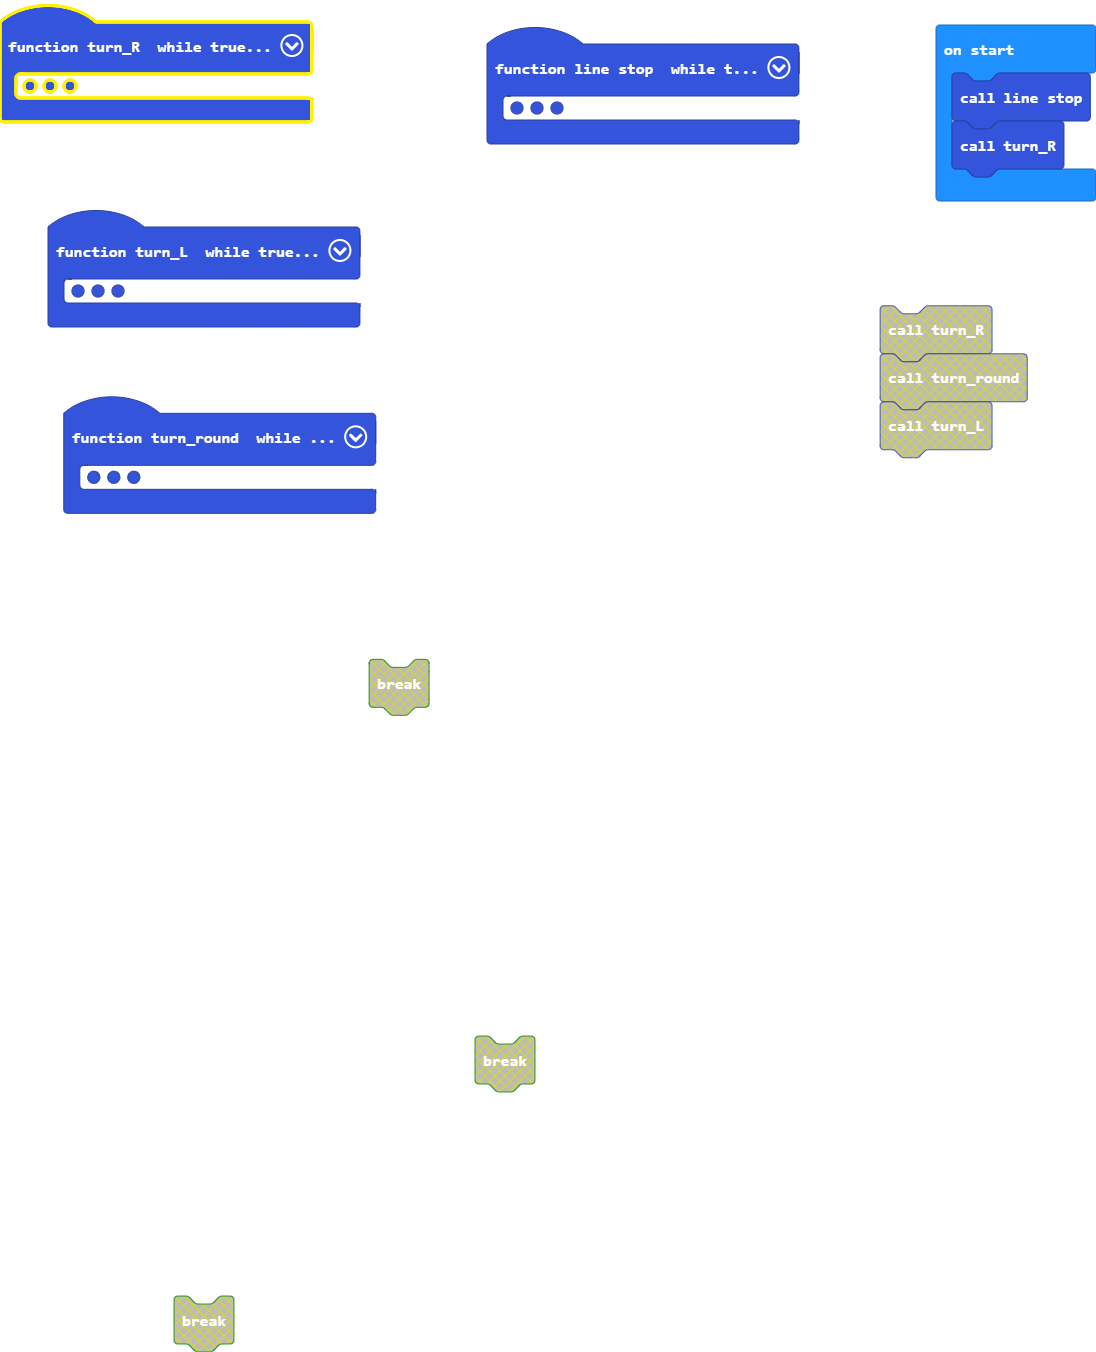
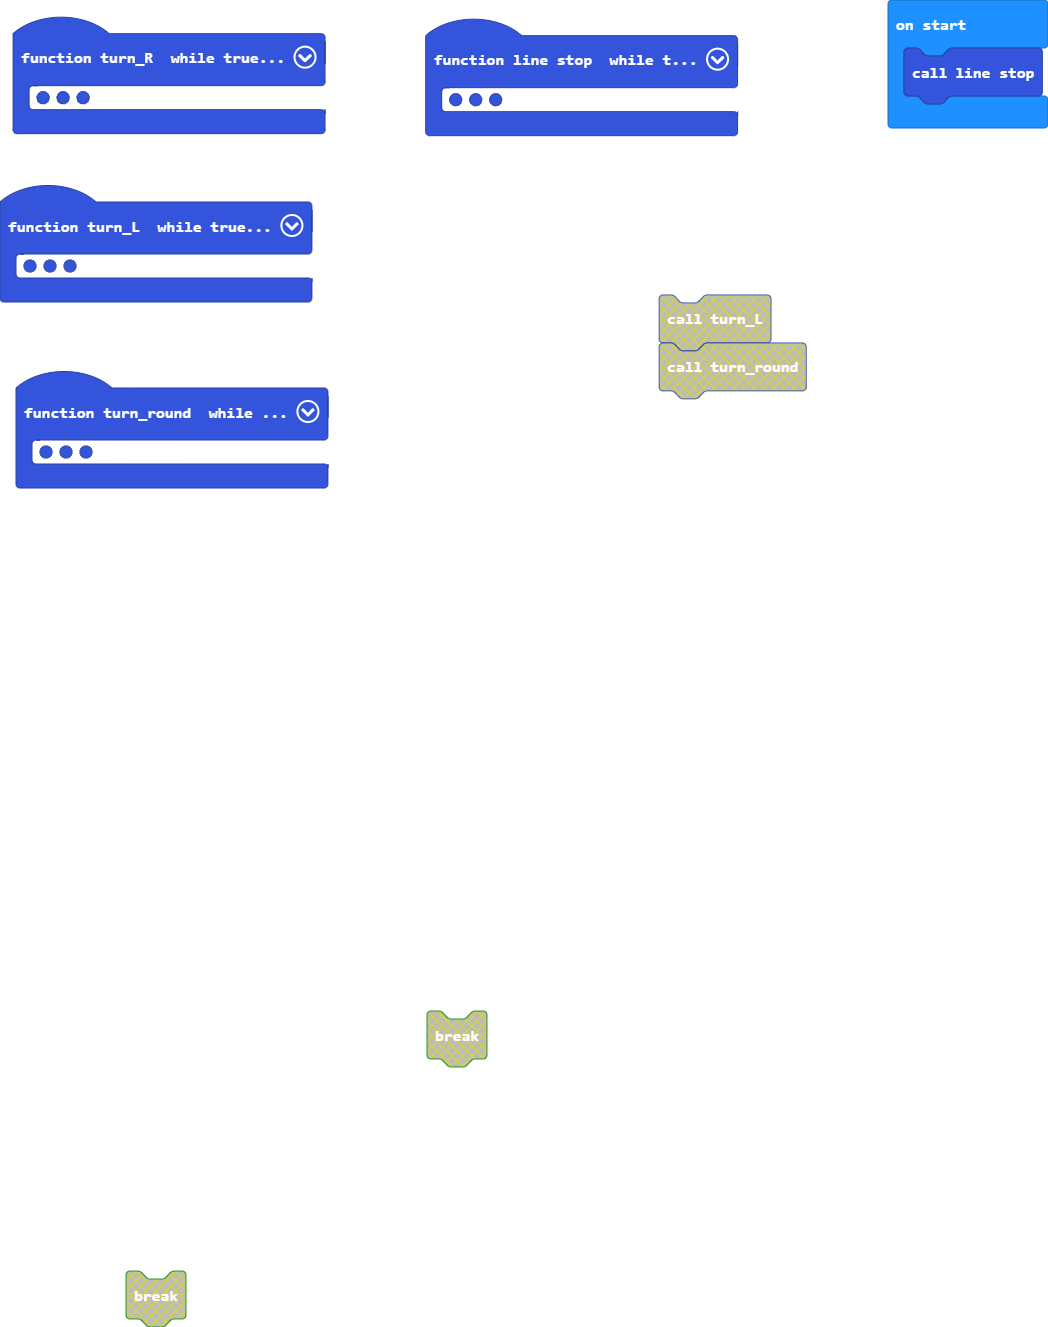
Update main.blocks, main.ts

diff --git a/main.ts b/main.ts
@@ -56,4 +56,3 @@ function line_stop () {
     }
 }
 line_stop()
-turn_R()
